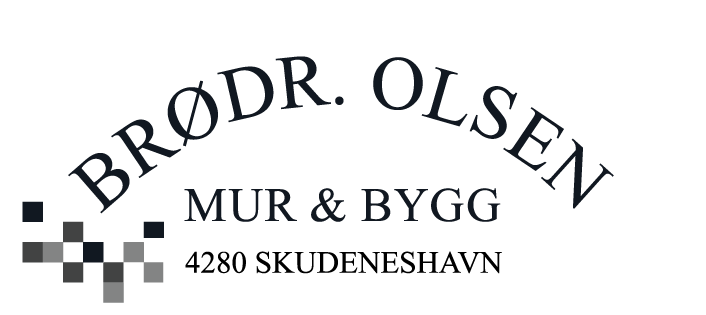
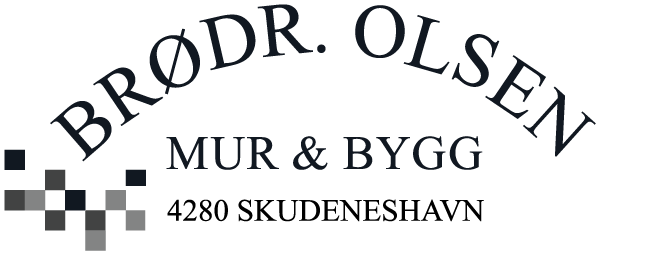
Rens og trim sponsorlogoer: riktig størrelse og ryddige filnavn
- Rema 1000: fjernet stor hvit luft rundt ordmerket (600x600 -> 548x88),
  vises nå i full størrelse i kortet
- Sparebank, Solstad, Brødr. Olsen: trimmet luft rundt logoinnholdet
- SUIL: hvit bakgrunn fjernet (gjennomsiktig PNG)
- Nye ryddige filnavn uten spesialtegn (vb-kristoffer-sirevag.png m.fl.)

Changed region(s): [[0.0, 0.0, 0.9288, 0.9882]]

diff --git a/app/components/Sponsors.tsx b/app/components/Sponsors.tsx
@@ -3,7 +3,7 @@ import Image from "next/image";
 const hovedsponsorer = [
   {
     name: "Skudenes & Aakra Sparebank",
-    logo: "/images/sponsorer/sponsorer_0014_Layer-1-1.webp",
+    logo: "/images/sponsorer/skudenes-aakra-sparebank.png",
     url: "https://www.skudenesaakra.no/",
   },
   {
@@ -22,7 +22,7 @@ const sponsorer = [
   },
   {
     name: "VB - Kristoffer Sirevåg",
-    logo: "/images/sponsorer/VB_Kristoffer_Sirevåg.jpg",
+    logo: "/images/sponsorer/vb-kristoffer-sirevag.png",
     textLogo: false,
     url: null,
   },
@@ -41,7 +41,7 @@ const sponsorer = [
   },
   {
     name: "Rema 1000",
-    logo: "/images/sponsorer/rema-1000-logo-png_seeklogo-117380.png",
+    logo: "/images/sponsorer/rema-1000.png",
     textLogo: false,
     url: "https://www.rema.no/",
   },
@@ -49,7 +49,7 @@ const sponsorer = [
 
 const arrangor = {
   name: "Skudenes UIL",
-  logo: "/images/sponsorer/suil.webp",
+  logo: "/images/sponsorer/suil.png",
   url: null,
 };
 
